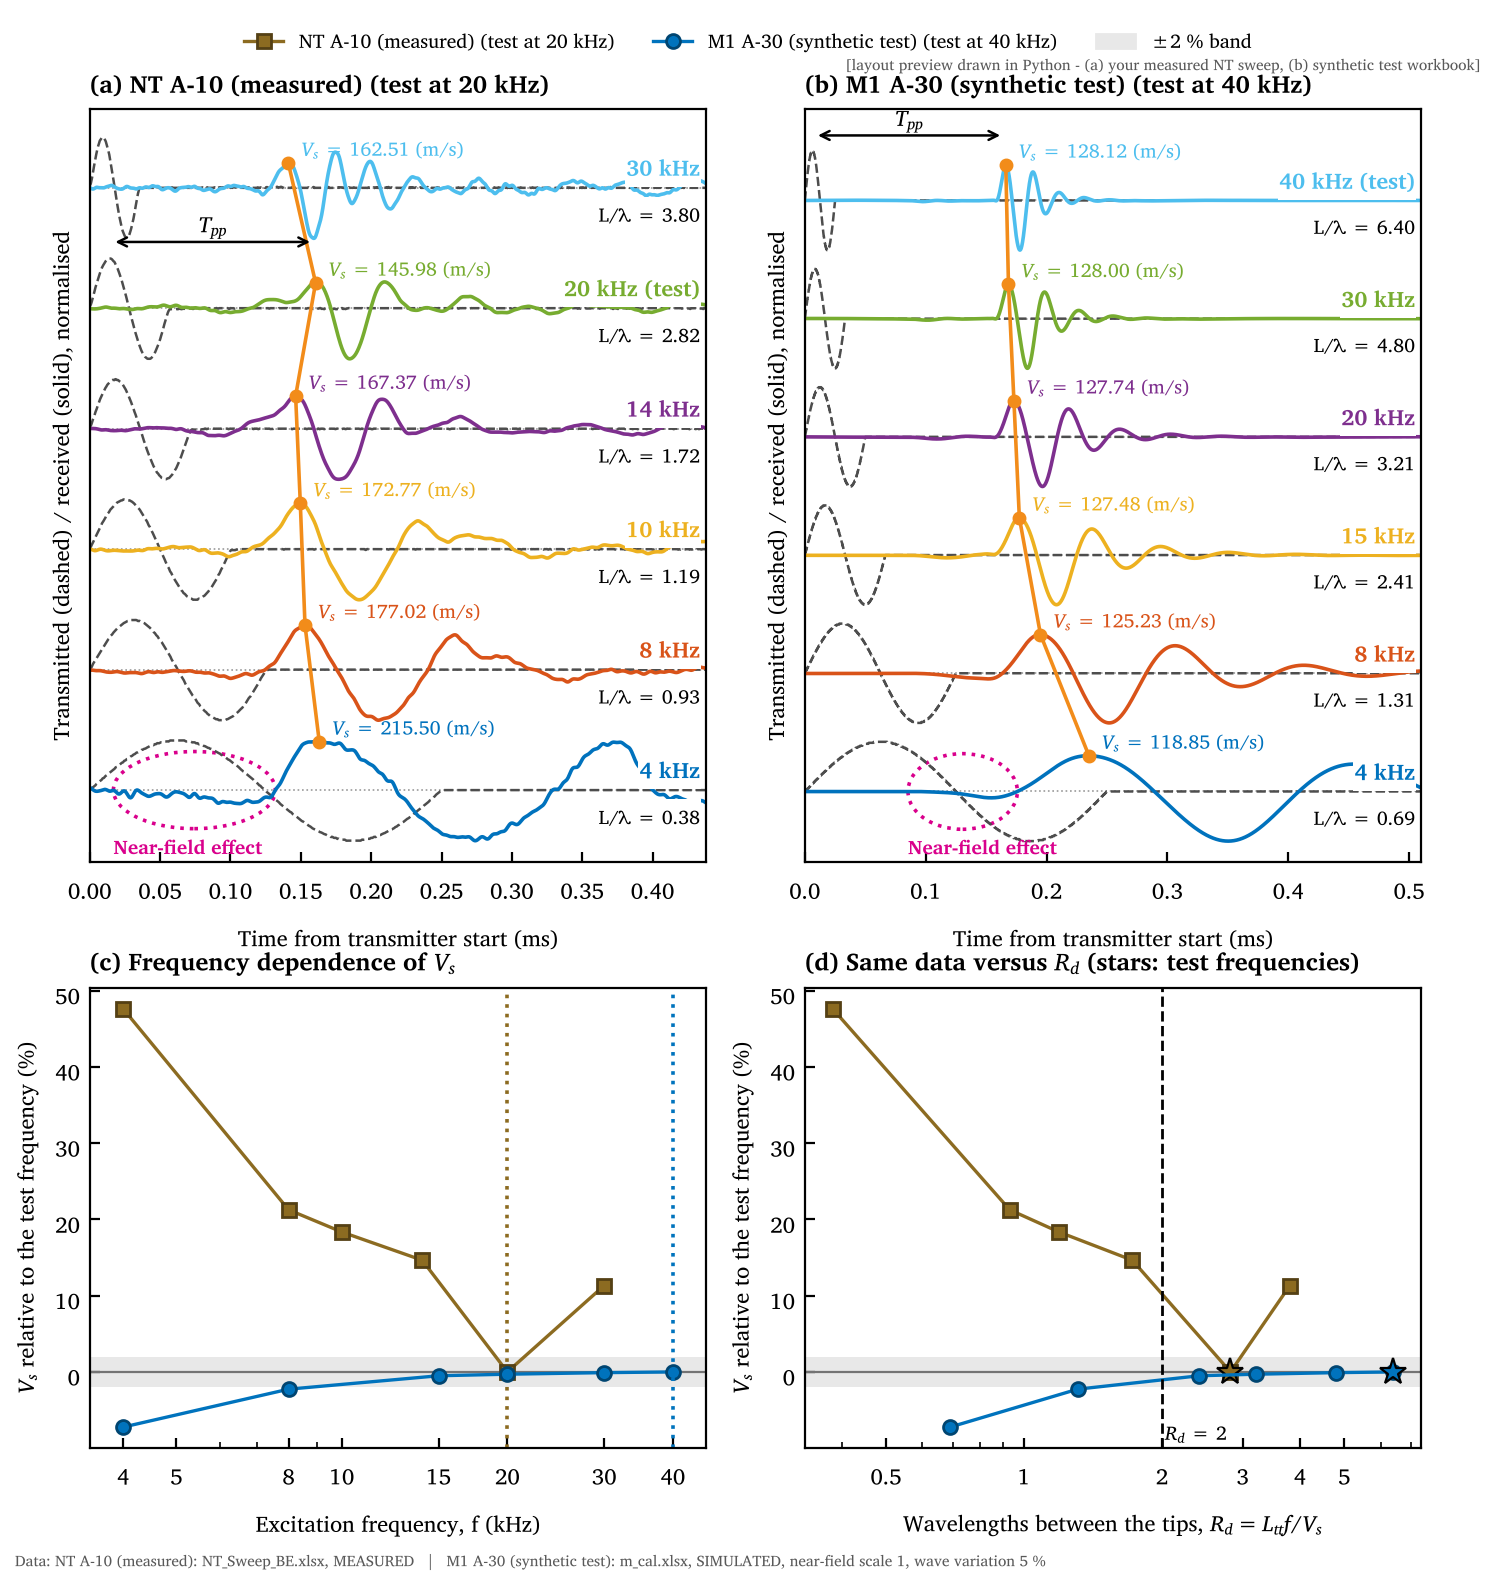
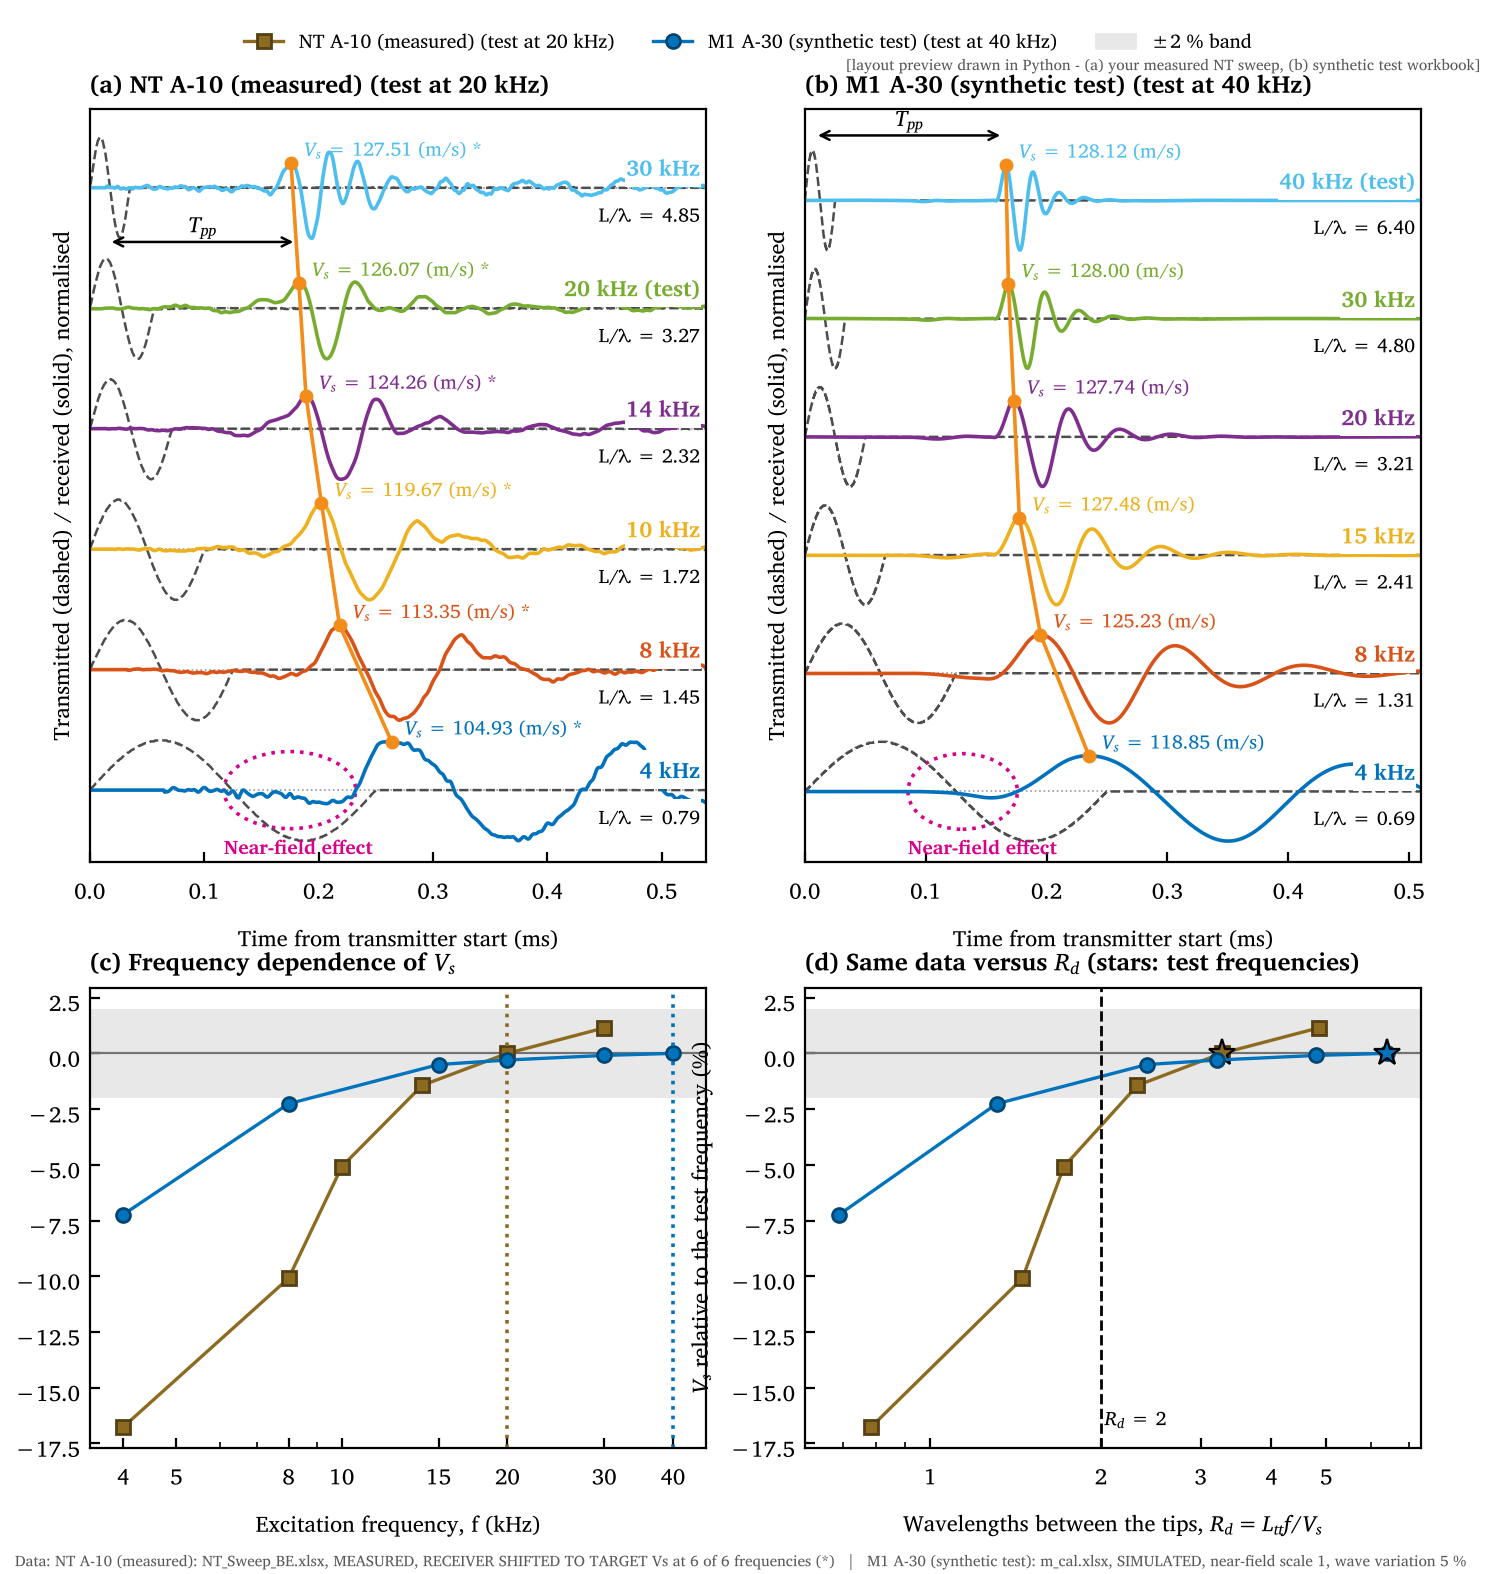
BE_SweepToWorkbook: shift the receiver to a target Vs per frequency
- cfg.targetVs = [f_kHz Vs]: the receiver record is moved in time (cubic
  spline, uncovered part zero) until T_pp = L / Vs_target + Tc, found by
  secant iteration (the refined peak on a broad crest does not move 1:1
  with the shift); the transmitter is unchanged
- noise, SNR and the crosstalk check use the recorded receiver, so the
  zero-filled gap cannot create a crosstalk flag; with no shift the
  analysis is still identical to BE_TravelTime_V6 (10 test pairs)
- Summary keeps rx_shift_us, Ts_PP_recorded_us, Vs_PP_recorded_m_s and
  Vs_target_m_s; user_entered = 1 marks shifted frequencies; Parameters:
  DATA TYPE 'MEASURED, RECEIVER SHIFTED TO TARGET Vs' and receiver_shift
- cfg.targetLoverLambda: L/lambda check, prints the L range that
  reproduces all given values
- defaults: Vs and L/lambda of the NTA-10 figure
- BE_CompareSweeps footnote names the shift for such workbooks
- preview updated with the shifted NT sweep

Claude-Session: https://claude.ai/code/session_01Sjp6e28GC9LCBqxHtkKvEY

diff --git a/BE_SweepToWorkbook.m b/BE_SweepToWorkbook.m
@@ -34,6 +34,22 @@
 %  from the transmitter start to the end of the shortest record (linear
 %  interpolation, for plotting only - all travel times come from the
 %  original samples). The receiver is stored with the polarity used.
+%
+%  RECEIVER SHIFT TO A TARGET Vs (cfg.targetVs, [] = off): for every
+%  frequency listed, the receiver record is moved in time (cubic-spline
+%  resampling, the uncovered part set to zero) until the peak-to-peak
+%  travel time is L / Vs_target + Tc, so Vs_PP equals Vs_target. The
+%  transmitter is not changed. All methods are then evaluated on the moved
+%  receiver (they move with it); noise, SNR and the crosstalk check still
+%  come from the recorded receiver. The shift, the recorded T_pp and the recorded Vs_PP
+%  are kept in the Summary sheet (rx_shift_us, Ts_PP_recorded_us,
+%  Vs_PP_recorded_m_s), DATA TYPE reads 'MEASURED, RECEIVER SHIFTED TO
+%  TARGET Vs' and user_entered = 1 marks these frequencies, so
+%  BE_CompareSweeps labels them (*). Shifted Vs values are therefore inputs,
+%  not measurements of this record.
+%  L/lambda = L f / Vs follows from L and the target Vs; with
+%  cfg.targetLoverLambda given, the computed values are compared with them
+%  and the range of L that reproduces all of them is printed.
 %  =========================================================================
 
 %% ============================ USER SETTINGS ==============================
@@ -51,6 +67,13 @@ cfg.filterType     = 'none';            % data supplied filtered; 'fft' to band-
 cfg.minTravelTime  = 0;                 % s, nothing earlier is picked (crosstalk)
 cfg.maxTravelTime  = [];                % s, [] -> end of the record
 cfg.outputFile     = '';                % '' -> <sweep>_BE.xlsx next to the input
+% target Vs per frequency, [f_kHz  Vs_m/s] (here: the NTA-10 figure); the receiver is
+% shifted so that Vs_PP equals these. [] -> no shift. Frequencies not in the sweep are ignored.
+cfg.targetVs = [ 4 104.93;  6 108.11;  8 113.35;  10 119.67;  14 124.26;
+                20 126.07; 24 127.01; 28 127.21;  30 127.51];
+% optional check only: L/lambda of the same figure, [f_kHz  L/lambda] ([] -> no check)
+cfg.targetLoverLambda = [ 4 0.78;  6 1.14;  8 1.45;  10 1.72;  14 2.31;
+                         20 3.26; 24 3.88; 28 4.52;  30 4.83];
 %% =========================================================================
 
 if isempty(sweepFile)
@@ -98,7 +121,30 @@ R = cell(n, 1);
 for k = 1:n
     R{k} = analysePair(sw(k).t, sw(k).x, sw(k).y, opts);
 end
+
+% ---- 4b. receiver shift to the target Vs ----------------------------------------
+sh = struct('d', zeros(n, 1), 'TsRec', NaN(n, 1), 'VsRec', NaN(n, 1), 'VsTarget', NaN(n, 1), ...
+    'on', false(n, 1), 'resid', NaN(n, 1));
+for k = 1:n
+    sh.TsRec(k) = methodTs(R{k}, 'P2P');
+    sh.VsRec(k) = R{k}.methods(strcmp({R{k}.methods.tag}, 'P2P')).Vs;
+end
+if ~isempty(cfg.targetVs)
+    fT = cfg.targetVs(:, 1);
+    for k = 1:n
+        j = find(abs(fT - sw(k).fNominal) < 1e-6, 1);
+        if isempty(j), continue; end
+        sh.VsTarget(k) = cfg.targetVs(j, 2);
+        [R{k}, sh.d(k), sh.resid(k)] = shiftToTarget(sw(k), R{k}, cfg.L / sh.VsTarget(k) + cfg.Tc, opts);
+        sh.on(k) = true;
+    end
+    unused = setdiff(fT, [sw.fNominal]);
+    if ~isempty(unused)
+        fprintf('Target Vs given for %s kHz: not in the sweep, ignored.\n', mat2str(unused.'));
+    end
+end
 res = collectResults(sw, R, cfg, vote, margin);
+res.shift = sh;
 printResults(res, sw, pol, polBasis, cfg, 1);
 
 % ---- 5. comparison workbook ---------------------------------------------------
@@ -148,7 +194,7 @@ function opts = analysisOptions(cfg)
 opts = struct('rxPolarity', 1, 'filterType', lower(cfg.filterType), 'filterBand', [], ...
     'filterBandFactor', [0.25 4], 'butterOrder', 4, 'minTravelTime', cfg.minTravelTime, ...
     'maxTravelTime', cfg.maxTravelTime, 'ampFrac', 0.25, 'noiseK', 4, 'minSNR', 10, ...
-    'L', cfg.L, 'H_i', [], 'dH_c', 0, 'H_b', [], 'Tc', cfg.Tc, 'rho', []);
+    'L', cfg.L, 'H_i', [], 'dH_c', 0, 'H_b', [], 'Tc', cfg.Tc, 'rho', [], 'noiseRef', []);
 if ~ismember(opts.filterType, {'none', 'fft', 'butter'})
     error('BEW:opt', 'cfg.filterType must be ''none'', ''fft'' or ''butter''.');
 end
@@ -176,10 +222,15 @@ y  = opts.rxPolarity * y;
 yr = opts.rxPolarity * yr;
 F.nSmooth = max(1, round(0.05 * T.period / dt));
 ys = movingMean(yr, F.nSmooth);
-F.noiseRaw    = robustStd(yr(iPre));
-F.noiseFilt   = max(robustStd(y(iPre)), F.noiseRaw * sqrt(mean(F.H.^2)));
-F.noiseSmooth = max(robustStd(ys(iPre)), F.noiseRaw * sqrt(1/F.nSmooth + 1/nnz(iPre)));
-X = crosstalkCheck(t, x, ys, T, F, opts);
+yn = yr;  ynF = y;  ynS = ys;                       % noise and crosstalk from this record, or
+if ~isempty(opts.noiseRef)                          % from the recorded receiver when it was shifted
+    yn = opts.noiseRef - mean(opts.noiseRef(iPre));
+    ynF = filterReceiver(yn, fs, f0, opts);  ynS = movingMean(yn, F.nSmooth);
+end
+F.noiseRaw    = robustStd(yn(iPre));
+F.noiseFilt   = max(robustStd(ynF(iPre)), F.noiseRaw * sqrt(mean(F.H.^2)));
+F.noiseSmooth = max(robustStd(ynS(iPre)), F.noiseRaw * sqrt(1/F.nSmooth + 1/nnz(iPre)));
+X = crosstalkCheck(t, x, ynS, T, F, opts);        % crosstalk: a property of the recording
 P = pickReceiver(t, y, yr, ys, T, F, opts);
 sigOK = P.snr >= opts.minSNR;
 M = struct('name', {}, 'tag', {}, 'basis', {}, 'Ts', {}, 'quality', {}, 'note', {});
@@ -207,6 +258,40 @@ end
 M = addVelocity(M, opts, f0, P.fPeakTrough);
 R = struct('transmitter', T, 'filter', F, 'crosstalk', X, 'picks', P, 'cc', C, 'methods', M, ...
     'signals', struct('t', t, 'tx', x, 'rxRaw', yr, 'rxFiltered', y));
+end
+
+function [R, d, resid] = shiftToTarget(s, R0, TsTarget, opts)
+% receiver moved by d (s, positive = later) so that the peak-to-peak travel time is
+% TsTarget; the uncovered part is zero, noise is taken from the recorded receiver
+iPre = s.t < R0.transmitter.tStart;
+y0 = s.y - mean(s.y(iPre));
+o = opts;  o.noiseRef = y0;
+d = 0;  ts = methodTs(R0, 'P2P');  R = R0;  dPrev = [];
+if ~isfinite(ts), error('BEW:shift', '%s: no peak-to-peak travel time to shift from.', s.label); end
+for it = 1:30
+    slope = 1;                                      % secant step: on a broad crest the refined
+    if ~isempty(dPrev) && d ~= dPrev                % peak moves faster or slower than the shift
+        slope = (ts - tsPrev) / (d - dPrev);
+        if ~(slope > 0.2 && slope < 5), slope = 1; end
+    end
+    dPrev = d;  tsPrev = ts;
+    d = d + (TsTarget - ts) / slope;
+    R = analysePair(s.t, s.x, interp1(s.t, y0, s.t - d, 'spline', 0), o);
+    ts = methodTs(R, 'P2P');
+    if ~isfinite(ts), error('BEW:shift', '%s: the peak is lost after a shift of %.2f us.', s.label, 1e6 * d); end
+    if abs(TsTarget - ts) < 1e-11, break; end
+end
+resid = ts - TsTarget;
+if abs(resid) > 1e-9
+    warning('BEW:shift', '%s: target travel time reached within %.3g us only.', s.label, 1e6 * abs(resid));
+end
+if abs(R.picks.aPeak1 / R0.picks.aPeak1 - 1) > 0.05
+    warning('BEW:shift', ['%s: after the shift a different receiver peak is picked (amplitude %.3g, ' ...
+        'recorded pick %.3g).'], s.label, R.picks.aPeak1, R0.picks.aPeak1);
+end
+if d < 0 && R0.picks.tPeak1 + d < R0.transmitter.tStart
+    warning('BEW:shift', '%s: the shift moves the recorded peak before the transmitter start.', s.label);
+end
 end
 
 function [v, m] = polarityVote(C, opts)
@@ -269,6 +354,44 @@ for k = 1:numel(res.f)
 end
 fprintf(fid, ['vote: +1/-1 = sign of the largest cross-correlation excursion (polarity as recorded); ' ...
     'NF = near-field excursion / first peak (0 = none confirmed)\n\n']);
+sh = res.shift;
+if any(sh.on)
+    fprintf(fid, 'Receiver shifted to the target Vs (values above are after the shift):\n');
+    fprintf(fid, '%7s %11s %11s %10s %11s %9s %9s\n', 'f kHz', 'T_pp rec us', 'Vs_pp rec', 'shift us', ...
+        'T_pp now us', 'Vs_pp', 'target');
+    for k = find(sh.on).'
+        fprintf(fid, '%7.2f %11.2f %11.2f %+10.2f %11.4f %9.4f %9.2f\n', res.fNominal(k), 1e6 * sh.TsRec(k), ...
+            sh.VsRec(k), 1e6 * sh.d(k), 1e6 * res.Ts(k, 2), res.Vs(k, 2), sh.VsTarget(k));
+    end
+    fprintf(fid, '\n');
+end
+if ~isempty(cfg.targetLoverLambda)
+    checkLoverLambda(res, cfg, fid);
+end
+end
+
+function checkLoverLambda(res, cfg, fid)
+% L/lambda = L f / Vs against the given values (taken as rounded to 2 decimals)
+G = cfg.targetLoverLambda;  lo = -Inf;  hi = Inf;  bad = 0;  m = 0;
+fprintf(fid, 'L/lambda check (L = %.3f mm):\n%7s %10s %8s %8s\n', 1e3 * cfg.L, 'f kHz', 'computed', 'given', 'match');
+for k = 1:numel(res.f)
+    j = find(abs(G(:, 1) - res.fNominal(k)) < 1e-6, 1);
+    if isempty(j) || ~isfinite(res.Vs(k, 2)), continue; end
+    m = m + 1;
+    ok = abs(round(100 * res.LL(k)) - round(100 * G(j, 2))) < 0.5;  bad = bad + ~ok;
+    fprintf(fid, '%7.2f %10.4f %8.2f %8s\n', res.fNominal(k), res.LL(k), G(j, 2), ternary(ok, 'yes', 'NO'));
+    Lk = res.Vs(k, 2) / (1e3 * res.f(k));                   % L per unit L/lambda at this Vs and f
+    lo = max(lo, (G(j, 2) - 0.005) * Lk);  hi = min(hi, (G(j, 2) + 0.005) * Lk);
+end
+if m == 0, return; end
+if bad == 0
+    fprintf(fid, 'All %d L/lambda values match.\n\n', m);
+elseif lo <= hi
+    fprintf(fid, ['%d of %d L/lambda values differ. With these Vs, every given L/lambda is reproduced ' ...
+        'for %.3f mm <= L <= %.3f mm (cfg.L).\n\n'], bad, m, 1e3 * lo, 1e3 * hi);
+else
+    fprintf(fid, '%d of %d L/lambda values differ, and no single L reproduces all of them with these Vs.\n\n', bad, m);
+end
 end
 
 function writeSweepWorkbook(file, sw, R, res, cfg, pol, polBasis, source)
@@ -278,10 +401,13 @@ n = numel(sw);  tags = res.tags;
 hdr = [{'f_kHz', 'f_tx_measured_kHz', 'L_over_lambda'}, strcat('Ts_', tags, '_us'), ...
        {'Vs_PP_m_s', 'Vs_S2S_m_s', 'Vs_CC_m_s', 'user_entered'}, strcat('quality_', tags), ...
        {'rx_peak_ms', 'rx_peak_norm', 'tx_peak_ms', 'P_arrival_ms', 'S2S_arrival_ms', 'first_bump_ratio', ...
-        'near_field_start_ms', 'near_field_end_ms', 'snr', 'crosstalk', 'polarity_vote', 'polarity_margin'}];
+        'near_field_start_ms', 'near_field_end_ms', 'snr', 'crosstalk', 'polarity_vote', 'polarity_margin', ...
+        'rx_shift_us', 'Ts_PP_recorded_us', 'Vs_PP_recorded_m_s', 'Vs_target_m_s'}];
+sh = res.shift;
 body = [num2cell([res.f, res.fMeasured, res.LL, 1e6 * res.Ts, res.Vs(:, 2), res.Vs(:, 1), res.Vs(:, 4), ...
-        zeros(n, 1)]), res.quality, num2cell([res.rxPeak_ms, res.rxPeakNorm, res.txPeak_ms, NaN(n, 1), ...
-        res.s2s_ms, res.bump, res.nfStart_ms, res.nfEnd_ms, res.snr, double(res.crosstalk), res.vote, res.margin])];
+        double(sh.on)]), res.quality, num2cell([res.rxPeak_ms, res.rxPeakNorm, res.txPeak_ms, NaN(n, 1), ...
+        res.s2s_ms, res.bump, res.nfStart_ms, res.nfEnd_ms, res.snr, double(res.crosstalk), res.vote, res.margin, ...
+        1e6 * sh.d, 1e6 * sh.TsRec, sh.VsRec, sh.VsTarget])];
 writecell(nanToEmpty([hdr; body]), file, 'Sheet', 'Summary');
 % waveforms and cross-correlations on one grid (time from each transmitter start)
 dtc = min([sw.dt]);
@@ -306,13 +432,20 @@ end
 writecell(ch, file, 'Sheet', 'CrossCorrelation', 'Range', 'A1');
 writematrix(Cc, file, 'Sheet', 'CrossCorrelation', 'Range', 'A2');
 testF = [];  if ~isempty(cfg.testFrequency), testF = cfg.testFrequency; end
+dataType = 'MEASURED';  shiftNote = 'none: receivers as recorded';
+if any(sh.on)
+    dataType = 'MEASURED, RECEIVER SHIFTED TO TARGET Vs';
+    shiftNote = sprintf(['receiver moved by rx_shift_us at %d of %d frequencies so that Vs_PP = Vs_target; ' ...
+        'all travel times move with it; recorded values: Ts_PP_recorded_us, Vs_PP_recorded_m_s'], nnz(sh.on), n);
+end
 par = {'item', 'value', 'note';
-    'DATA TYPE', 'MEASURED', 'analysed with the BE_TravelTime_V6 methods by BE_SweepToWorkbook';
+    'DATA TYPE', dataType, 'analysed with the BE_TravelTime_V6 methods by BE_SweepToWorkbook';
+    'receiver_shift', ternary(any(sh.on), 'yes', 'no'), shiftNote;
     'source', source, 'measured sweep workbook';
     'L_mm', 1e3 * cfg.L, 'travel length tip to tip';
     'Tc_us', 1e6 * cfg.Tc, 'system time delay';
     'ref_frequency_kHz', testF, 'test frequency (empty: set in BE_CompareSweeps)';
-    'waveform_columns', 3, 'per frequency in Waveforms: tx, rx, rx as analysed (same: no filter)';
+    'waveform_columns', 3, 'per frequency in Waveforms: tx, rx, rx as analysed (same: no filter; shifted if receiver_shift)';
     'receiver_polarity', pol, polBasis;
     'filter', cfg.filterType, 'data supplied filtered';
     'frequency_basis', cfg.frequencyBasis, 'f_kHz: nominal (column titles) or measured transmitter';

diff --git a/BE_CompareSweeps.m b/BE_CompareSweeps.m
@@ -437,7 +437,11 @@ for k = 1:numel(sets)
     if isfinite(D.nfScale), p = sprintf('%s, near-field scale %g', p, D.nfScale); end
     if isfinite(D.variation) && D.variation > 0, p = sprintf('%s, wave variation %g %%', p, 100 * D.variation); end
     nU = nnz(D.userSet);
-    if nU > 0, p = sprintf('%s, T_pp entered by the user at %d of %d frequencies (*)', p, nU, numel(D.f)); end
+    if nU > 0 && contains(upper(D.dataType), 'SHIFTED')
+        p = sprintf('%s at %d of %d frequencies (*)', p, nU, numel(D.f));                 %#ok<AGROW>
+    elseif nU > 0
+        p = sprintf('%s, T_pp entered by the user at %d of %d frequencies (*)', p, nU, numel(D.f)); %#ok<AGROW>
+    end
     parts{k} = p;
 end
 s = ['Data: ' strjoin(parts, '   |   ')];
